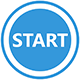
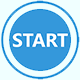
adds

Changed region(s): [[0.0, 0.0, 1.0, 1.0], [0.4, 0.1, 0.9, 0.875], [0.1, 0.125, 0.6, 0.9]]

diff --git a/main.py b/main.py
@@ -5,27 +5,48 @@ window = Tk()
 window.title("Score Panel")
 window.geometry('800x500')
 window.resizable(width=0, height=0)
-window['bg'] = 'white'
-img_arrow_up = ImageTk.PhotoImage(file="pict/up.jpg")
-img_arrow_down = ImageTk.PhotoImage(file="pict/down.jpg")
+window['bg'] = 'azure'
+img_arrow_up = ImageTk.PhotoImage(file="pict/up.png")
+img_arrow_down = ImageTk.PhotoImage(file="pict/down.png")
 img_start = ImageTk.PhotoImage(file="pict/start.png")
 img_stop = ImageTk.PhotoImage(file="pict/stop.png")
 
+
 def buttons(direction, x, y):
     if direction == 'up':
-        btn_up = Button(window, image=img_arrow_up, command=lambda: print('click'), relief = 'flat',borderwidth=0, width=60,  height=44)
+        btn_up = Button(window, image=img_arrow_up, command=lambda: print('click'), relief='flat', borderwidth=0,
+                        width=60, height=44)
         btn_up.place(x=x, y=y)
     elif direction == 'down':
-        btn_down = Button(window, image=img_arrow_down, command=lambda: print('click'), relief = 'flat', width=60, borderwidth=0, height=44)
+        btn_down = Button(window, image=img_arrow_down, command=lambda: print('click'), relief='flat', width=60,
+                          borderwidth=0, height=44)
         btn_down.place(x=x, y=y)
     elif direction == 'start':
-        btn_down = Button(window, image=img_start, command=lambda: print('click'), relief = 'flat', borderwidth=0, width=80, height=80)
+        btn_down = Button(window, image=img_start, command=lambda: print('click'), relief='flat', borderwidth=0,
+                          width=80, height=80)
         btn_down.place(x=x, y=y)
     elif direction == 'stop':
-        btn_down = Button(window, image=img_stop, command=lambda: print('click'), relief = 'flat', borderwidth=0, width=80, height=68)
+        btn_down = Button(window, image=img_stop, command=lambda: print('click'), relief='flat', borderwidth=0,
+                          width=80, height=68)
         btn_down.place(x=x, y=y)
 
-#Add buttons
+
+#Add text input
+team1 = Entry(window,width=20,bg="white", fg="blue4", justify = "center", font=("times new roman Bold", 18))
+team1.insert(0,"Team 1")
+team1.place(x=10,y=20)
+
+team2 = Entry(window,width=20,bg="white", fg="blue4",justify = "center", font=("times new roman Bold", 18))
+team2.insert(0,"Team 2")
+team2.place(x=520,y=20)
+
+#Add labels
+lbl1 = Label(window, text="PERIOD",bg="azure", fg="blue4",font=("times new roman Bold", 18))
+lbl1.place(x=358,y=345)
+
+
+
+# Add buttons
 btn_score_left_up = buttons("up", 25, 100)
 btn_score_left_down = buttons("down", 25, 230)
 
@@ -36,8 +57,7 @@ btn_score_period_up = buttons("up", 300, 300)
 btn_score_period_down = buttons("down", 450, 300)
 
 btn_start = buttons("start", 366, 400)
-#btn_stop = buttons("stop", 366, 395)
+# btn_stop = buttons("stop", 366, 395)
 
 
 window.mainloop()
-
